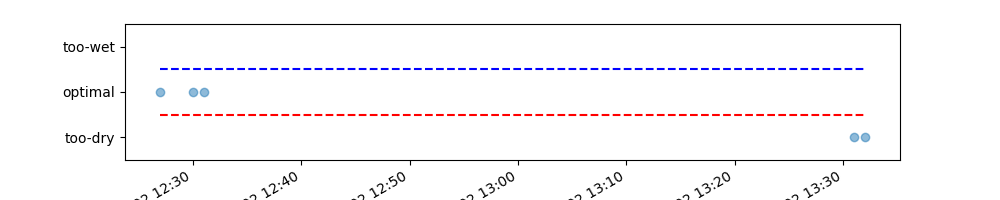
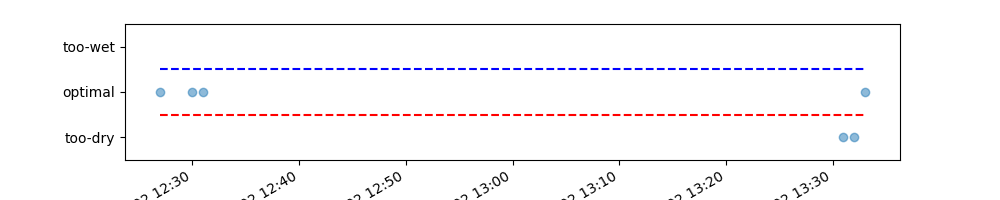
Update

diff --git a/index.html b/index.html
@@ -1,1 +1,1 @@
-<h >Lawn moisture monitor</h><br ></br><h4 >last weeks trend:</h4><img src="moisture-trend.png"></img><br ></br><p >Current moisture content: low</p><p >Suggested action: water the lawn</p>
+<h >Lawn moisture monitor</h><br ></br><h4 >last weeks trend:</h4><img src="moisture-trend.png"></img><br ></br><p >Current moisture content: optimal</p><p >Suggested action: water if sunny</p>
